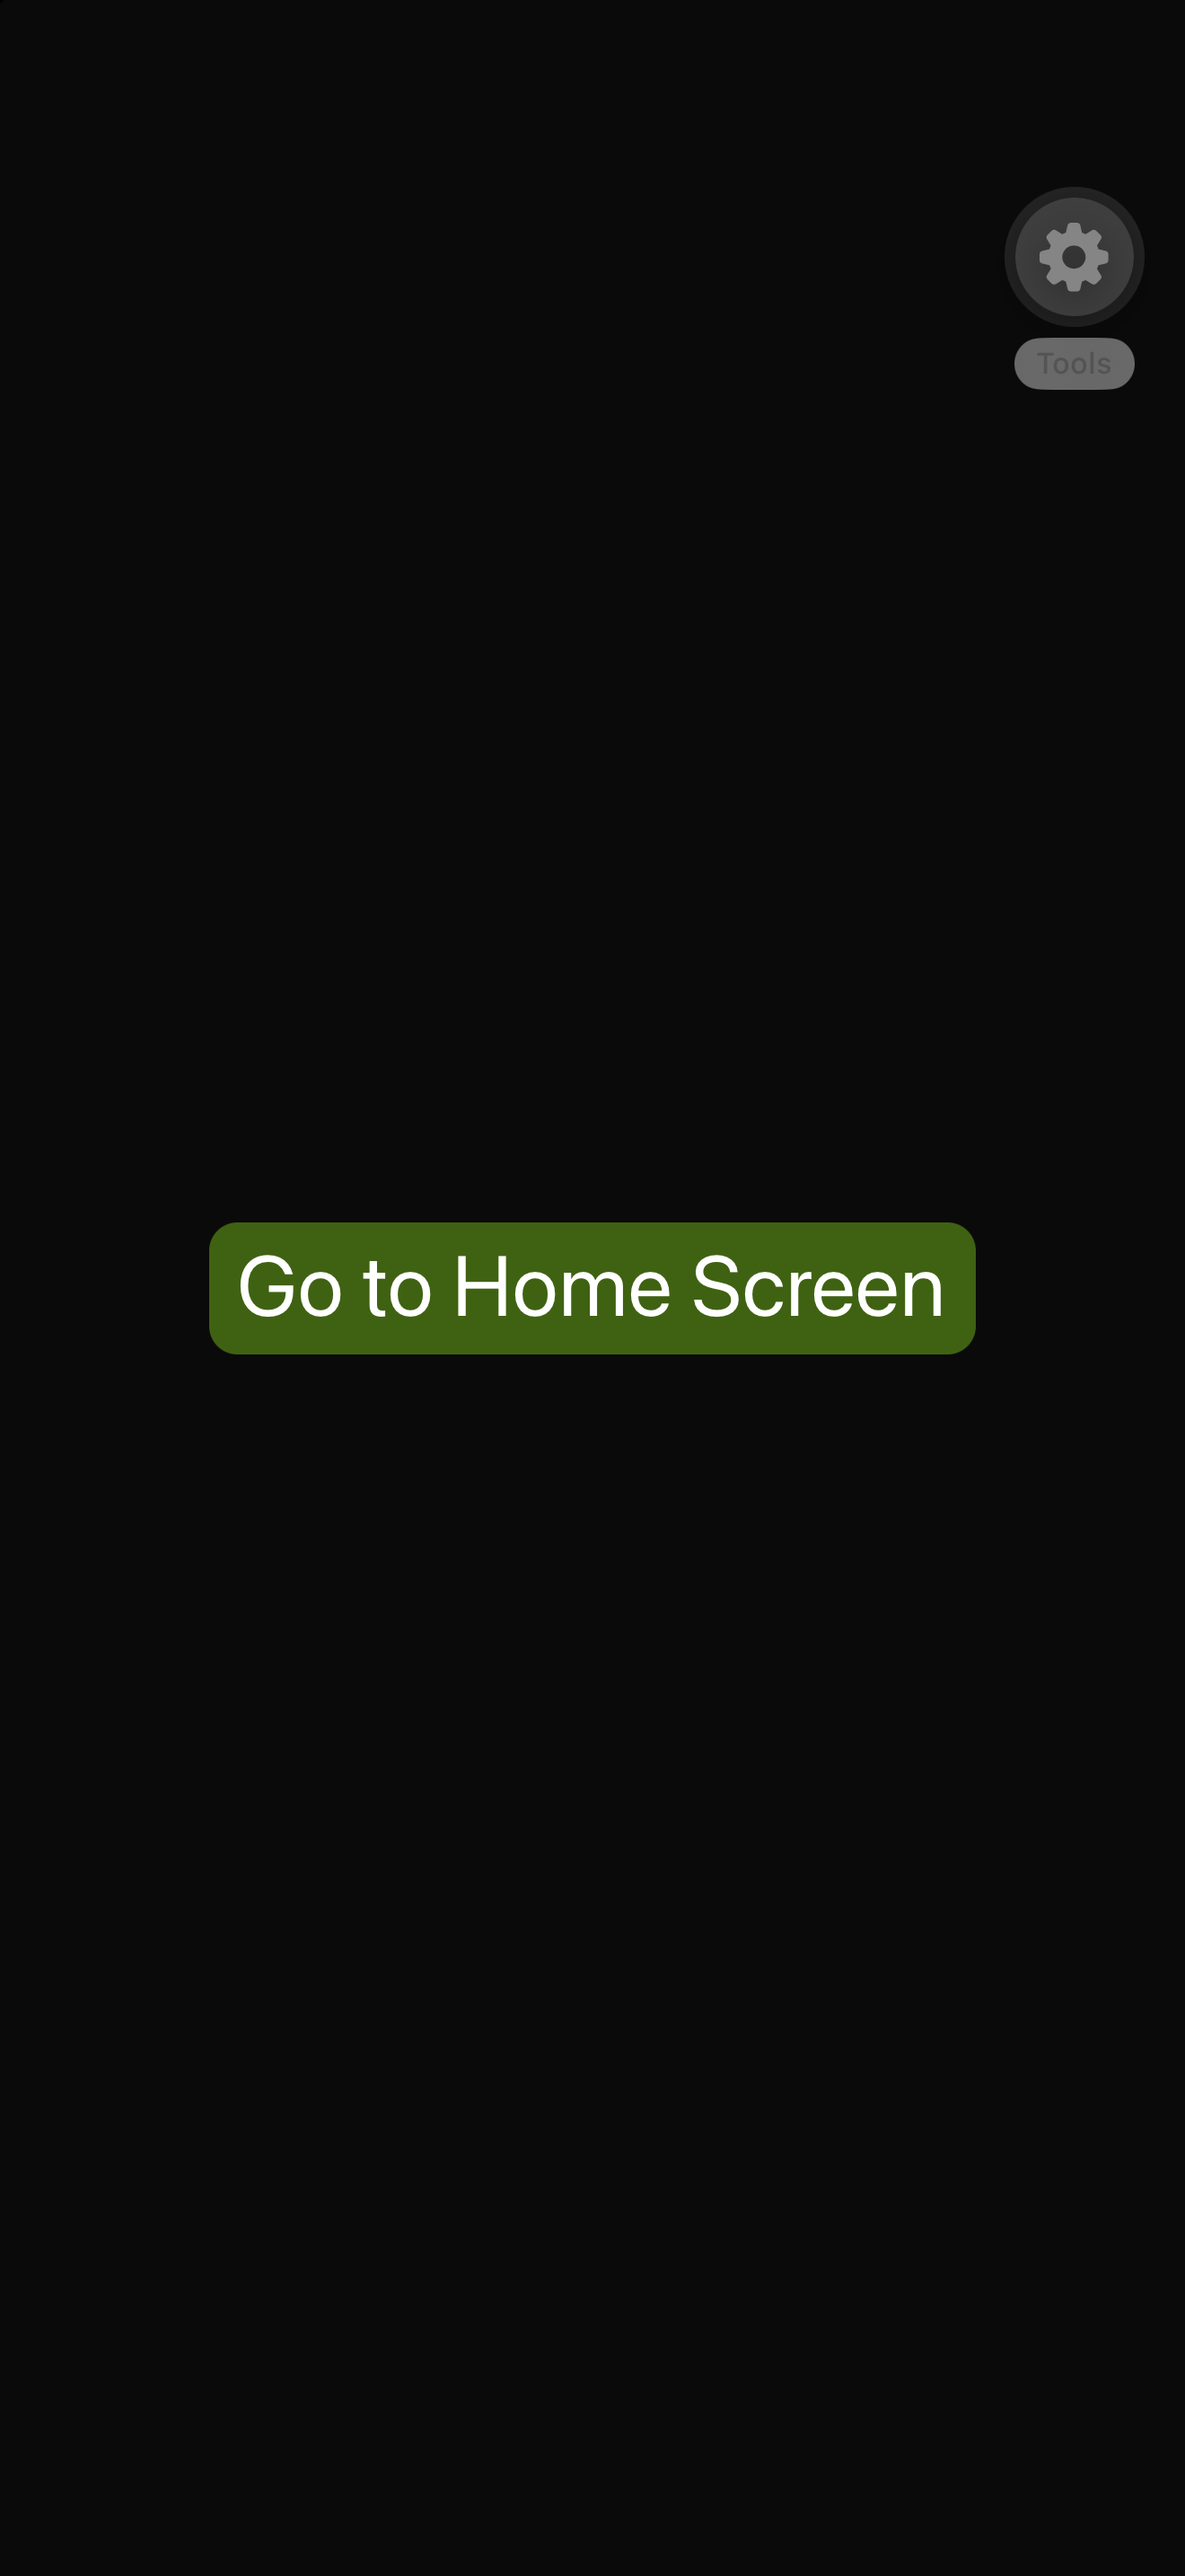
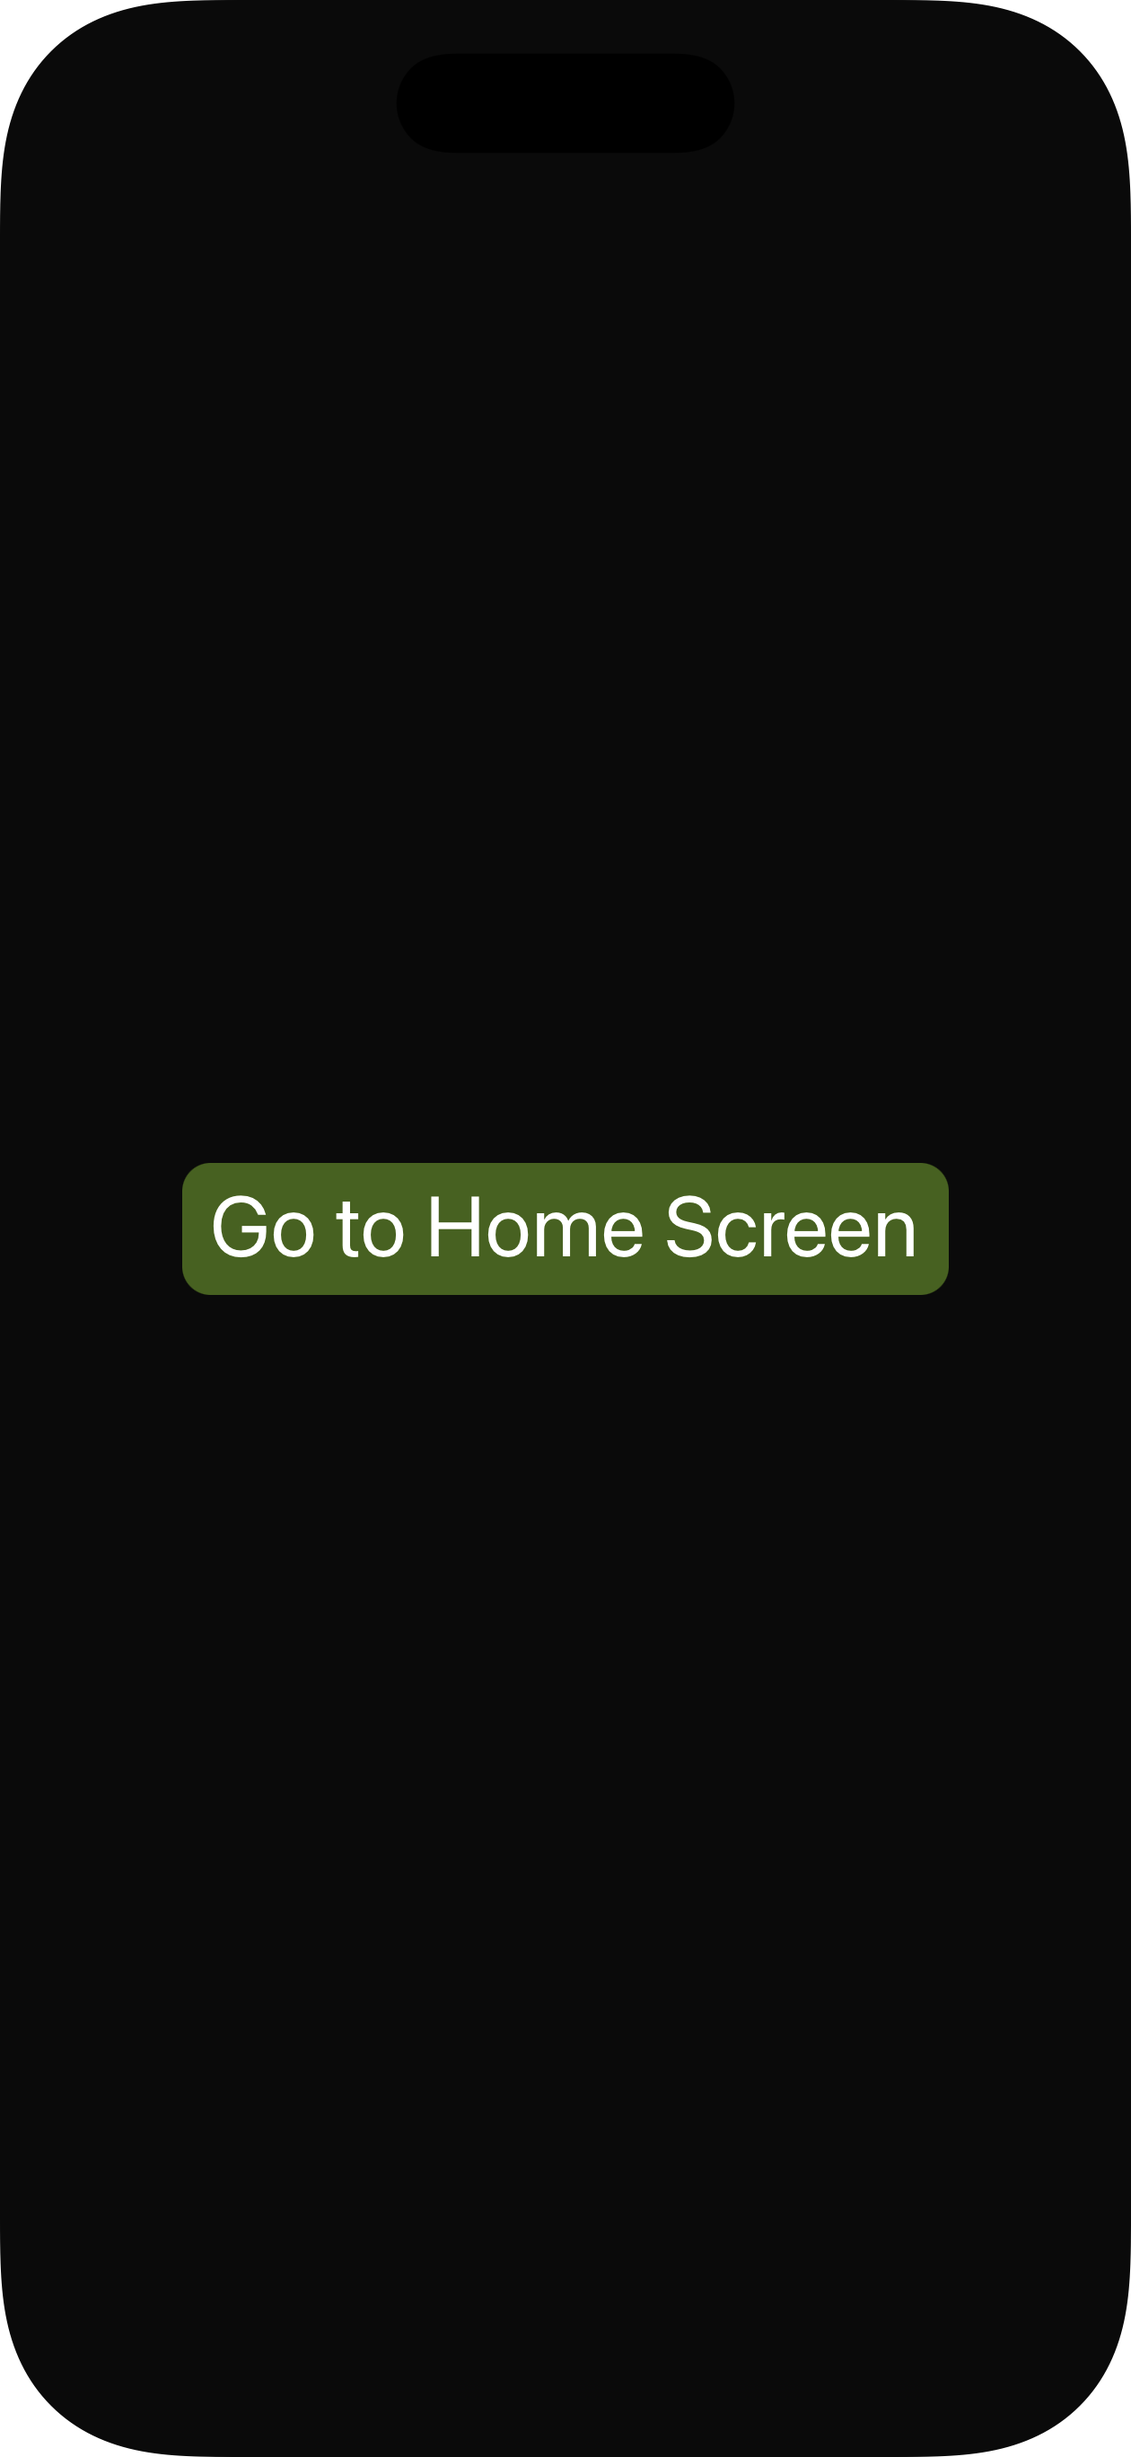
chore: update project documentation with revised mockup screenshots

diff --git a/README.md b/README.md
@@ -19,33 +19,67 @@ A modern anime streaming application built with **Expo**, **React Native**, and 
 
 ## Screenshots
 
+### Home & Navigation
+
 <table>
 <tr>
 <td><img src="assets/mockups/01-launch.png" width="220"/></td>
-<td><img src="assets/mockups/02-go-to-home-screen.png" width="220"/></td>
-<td><img src="assets/mockups/03-discover-tab.png" width="220"/></td>
-<td><img src="assets/mockups/04-my-list-tab.png" width="220"/></td>
+<td><img src="assets/mockups/02-home-hero.png" width="220"/></td>
+<td><img src="assets/mockups/03-scrolled-home.png" width="220"/></td>
+<td><img src="assets/mockups/04-category-grid.png" width="220"/></td>
 </tr>
-
 <tr>
 <td align="center"><strong>Launch</strong></td>
-<td align="center"><strong>Home</strong></td>
+<td align="center"><strong>Home (Hero)</strong></td>
+<td align="center"><strong>Home (Browse)</strong></td>
+<td align="center"><strong>Category Grid</strong></td>
+</tr>
+</table>
+
+### Discover & Library
+
+<table>
+<tr>
+<td><img src="assets/mockups/05-discover-tab.png" width="220"/></td>
+<td><img src="assets/mockups/06-my-list-empty.png" width="220"/></td>
+<td><img src="assets/mockups/07-search-results.png" width="220"/></td>
+<td><img src="assets/mockups/14-my-list-populated.png" width="220"/></td>
+</tr>
+<tr>
 <td align="center"><strong>Discover</strong></td>
-<td align="center"><strong>My Library</strong></td>
+<td align="center"><strong>Library (Empty)</strong></td>
+<td align="center"><strong>Search Results</strong></td>
+<td align="center"><strong>Library (Saved)</strong></td>
 </tr>
+</table>
 
+### Anime Details
+
+<table>
 <tr>
-<td><img src="assets/mockups/05-scrolled-home.png" width="220"/></td>
-<td><img src="assets/mockups/06-anime-details.png" width="220"/></td>
-<td><img src="assets/mockups/07-episode-sheet-opened.png" width="220"/></td>
-<td><img src="assets/mockups/08-episode-opened.png" width="220"/></td>
+<td><img src="assets/mockups/08-anime-details-header.png" width="220"/></td>
+<td><img src="assets/mockups/09-anime-details-story.png" width="220"/></td>
+<td><img src="assets/mockups/10-anime-details-cast.png" width="220"/></td>
+<td><img src="assets/mockups/11-episode-sheet.png" width="220"/></td>
 </tr>
-
 <tr>
-<td align="center"><strong>Browse</strong></td>
-<td align="center"><strong>Anime Details</strong></td>
+<td align="center"><strong>Overview</strong></td>
+<td align="center"><strong>Synopsis & Details</strong></td>
+<td align="center"><strong>Cast & Characters</strong></td>
 <td align="center"><strong>Episode Sheet</strong></td>
-<td align="center"><strong>Video Player</strong></td>
+</tr>
+</table>
+
+### Video Streaming
+
+<table>
+<tr>
+<td><img src="assets/mockups/12-video-player-overlay.png" width="220"/></td>
+<td><img src="assets/mockups/13-video-player-active.png" width="220"/></td>
+</tr>
+<tr>
+<td align="center"><strong>Player Controls</strong></td>
+<td align="center"><strong>Active Video Playback</strong></td>
 </tr>
 </table>
 
